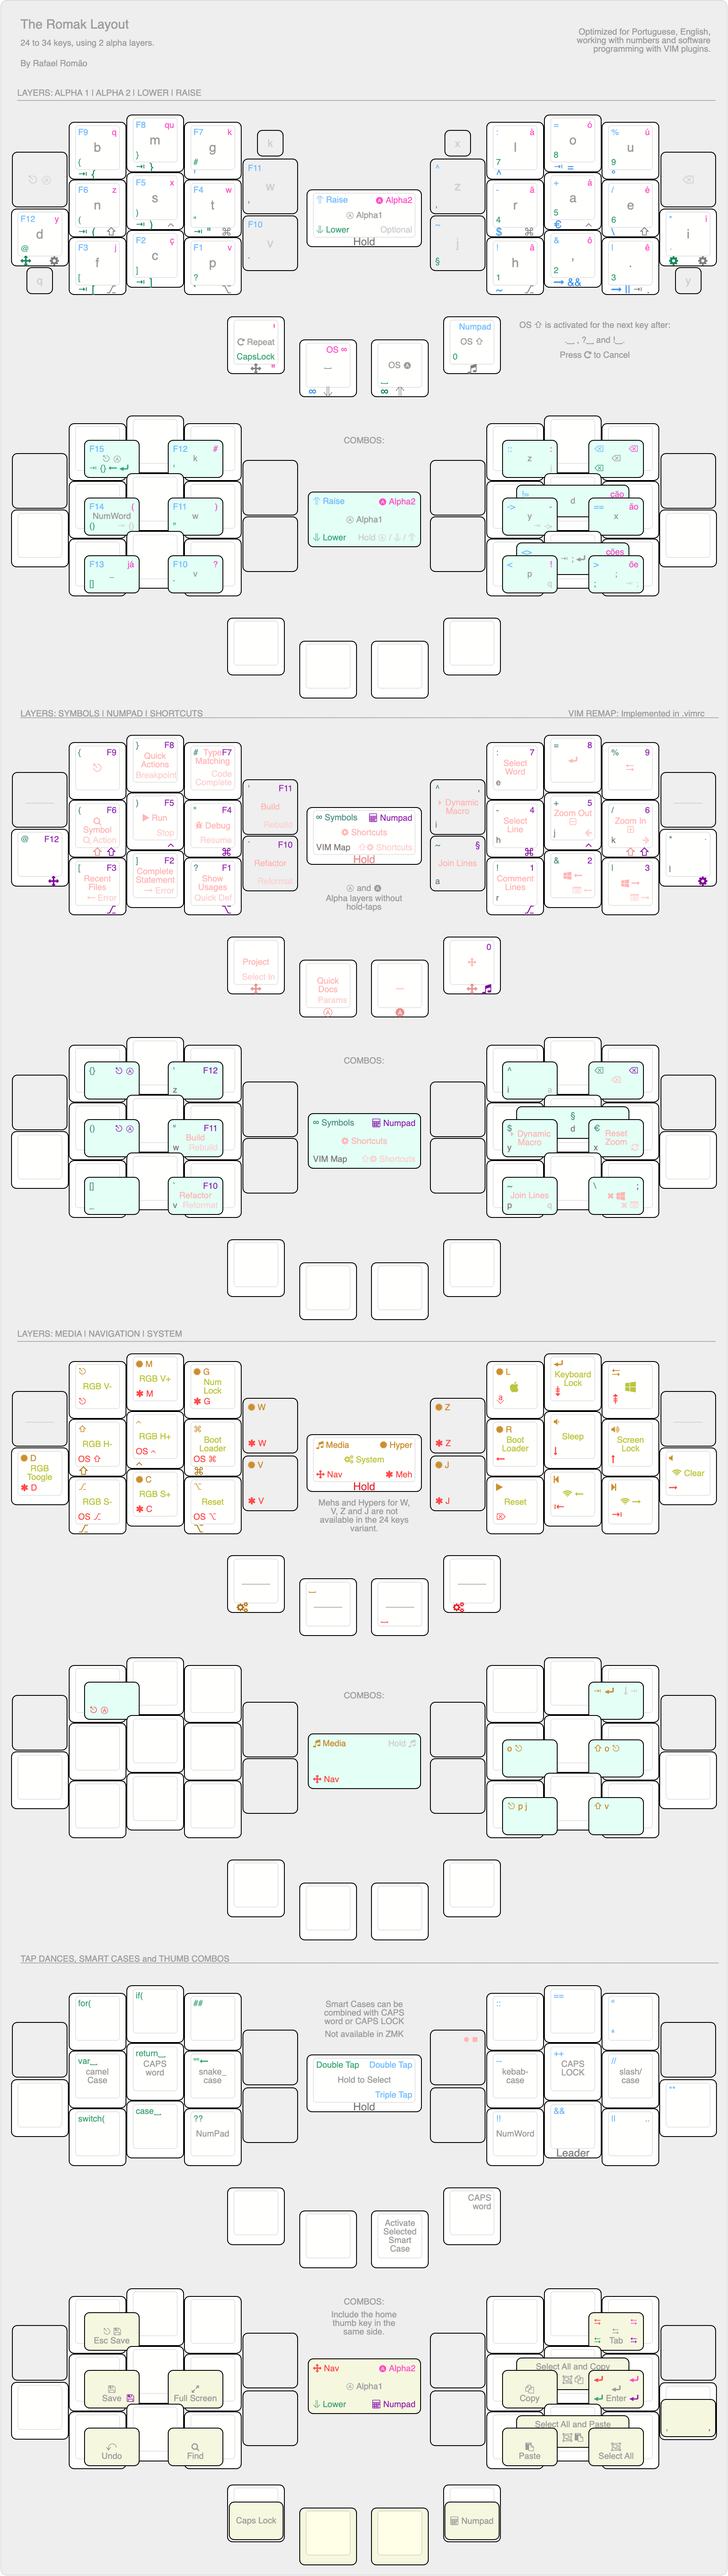
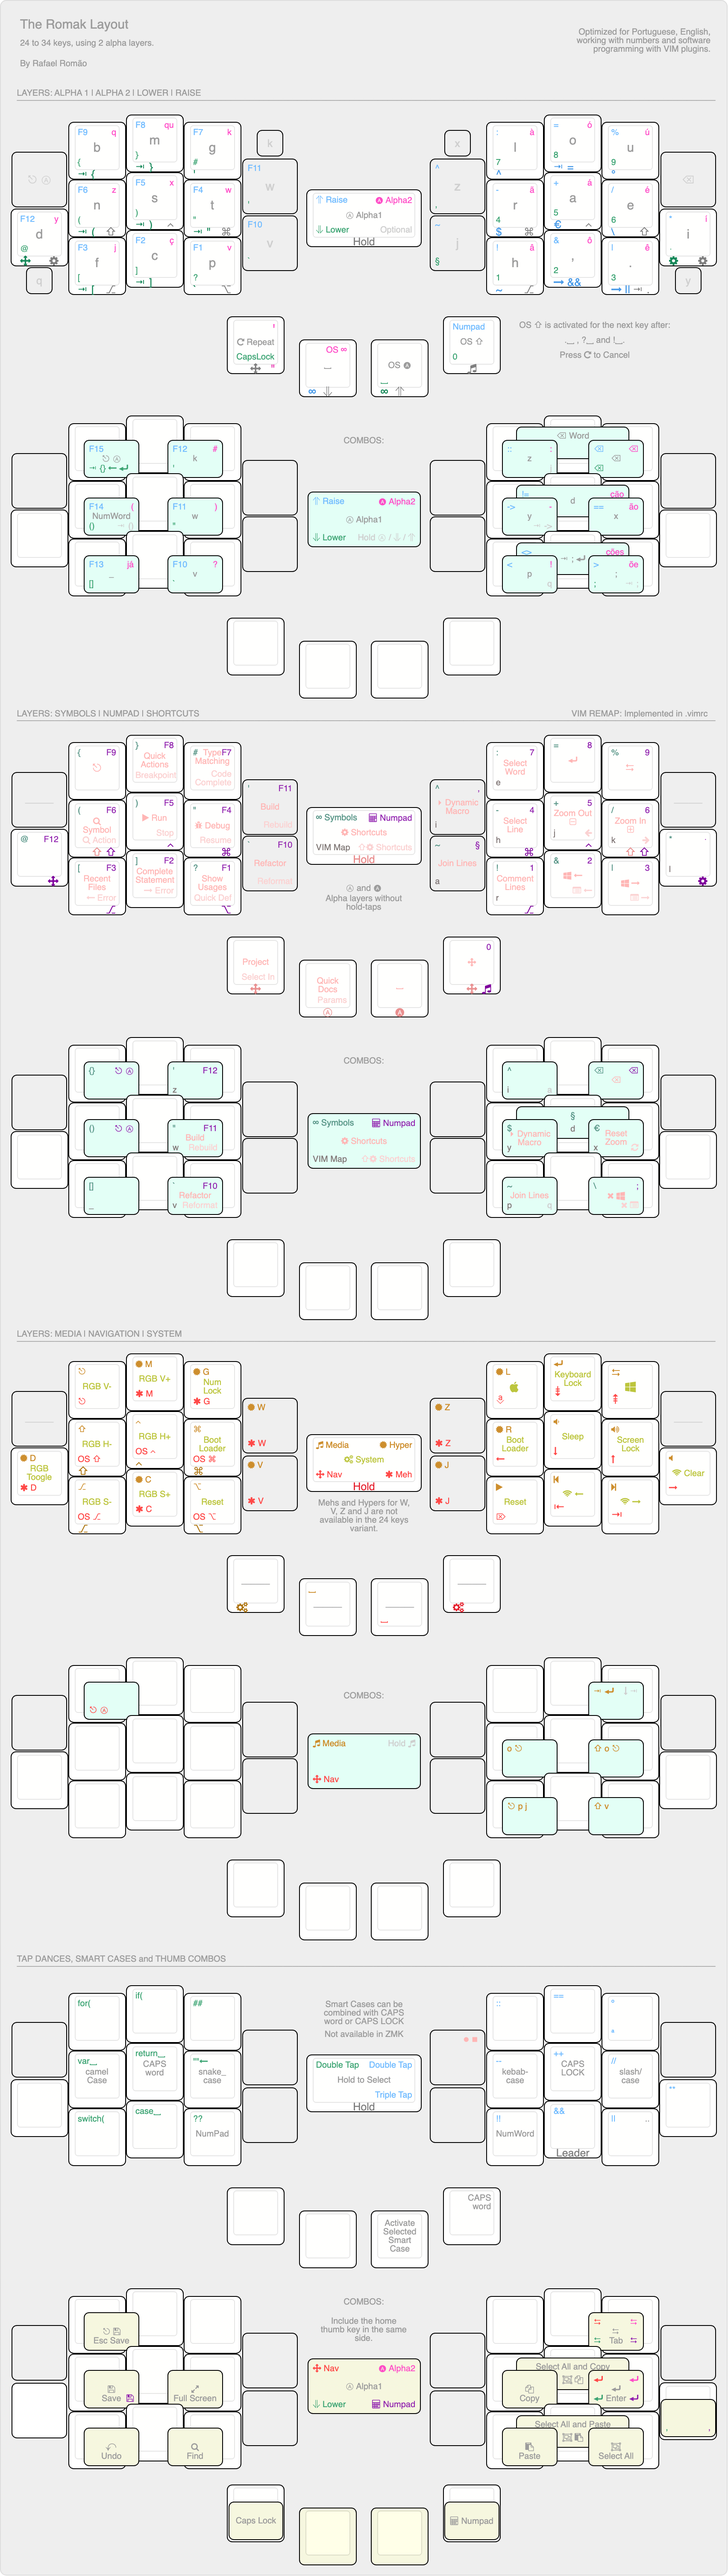
add combo for delete last word

diff --git a/src/qmk/users/rafaelromao/features/combos.c b/src/qmk/users/rafaelromao/features/combos.c
@@ -9,6 +9,7 @@ const uint16_t PROGMEM l_num_f11_combo[] = {CT_F5, GU_F4, COMBO_END};
 const uint16_t PROGMEM l_num_esc_combo[] = {KC_F9, KC_F8, COMBO_END};
 const uint16_t PROGMEM l_num_sav_combo[] = {KC_SPC, SF_F6, CT_F5, COMBO_END};
 const uint16_t PROGMEM r_num_ent_combo[] = {RAI_SPC, CT_5, SF_6, COMBO_END};
+const uint16_t PROGMEM r_num_dlw_combo[] = {KC_7, KC_8, KC_9, COMBO_END};
 const uint16_t PROGMEM r_num_bsp_combo[] = {KC_8, KC_9, COMBO_END};
 const uint16_t PROGMEM r_num_tab_combo[] = {RAI_SPC, KC_8, KC_9, COMBO_END};
 const uint16_t PROGMEM l_num_num_combo[] = {SF_F6, CT_F5, COMBO_END};
@@ -89,12 +90,12 @@ const uint16_t PROGMEM l_acc_lpa_combo[]  = {KC_Z, KC_X, COMBO_END};
 const uint16_t PROGMEM l_acc_rpa_combo[]  = {KC_X, KC_W, COMBO_END};
 const uint16_t PROGMEM l_acc_ques_combo[] = {MC_SQ_C, KC_V, COMBO_END};
 
+const uint16_t PROGMEM r_acc_dlw_combo[]  = {MC_GV_A, MC_SQ_O, MC_SQ_U, COMBO_END};
 const uint16_t PROGMEM r_acc_bsp_combo[]  = {MC_SQ_O, MC_SQ_U, COMBO_END};
 const uint16_t PROGMEM r_acc_tab_combo[]  = {RAI_A2, MC_SQ_O, MC_SQ_U, COMBO_END};
 const uint16_t PROGMEM r_acc_col_combo[]  = {MC_GV_A, MC_SQ_O, COMBO_END};
 const uint16_t PROGMEM r_acc_min_combo[]  = {MC_TL_A, MC_SQ_A, COMBO_END};
 const uint16_t PROGMEM r_acc_excl_combo[] = {MC_CR_A, MC_CR_O, COMBO_END};
-const uint16_t PROGMEM r_acc_eur_combo[]  = {MC_GV_A, MC_SQ_O, MC_SQ_U, COMBO_END};
 const uint16_t PROGMEM r_acc_ao_combo[]   = {MC_SQ_A, MC_SQ_E, COMBO_END};
 const uint16_t PROGMEM r_acc_oe_combo[]   = {MC_CR_O, MC_CR_E, COMBO_END};
 const uint16_t PROGMEM r_acc_cao_combo[]  = {MC_TL_A, MC_SQ_A, MC_SQ_E, COMBO_END};
@@ -125,6 +126,7 @@ const uint16_t PROGMEM r_rom_d_combo[]    = {RGUIT_R, RCTLT_A, RSFTT_E, COMBO_EN
 const uint16_t PROGMEM r_rom_cop_combo[]  = {RAI_A2, RGUIT_R, RCTLT_A, COMBO_END};
 const uint16_t PROGMEM r_rom_pas_combo[]  = {RAI_A2, RALTT_H, TD_COMM, COMBO_END};
 const uint16_t PROGMEM r_rom_ent_combo[]  = {RAI_A2, RCTLT_A, RSFTT_E, COMBO_END};
+const uint16_t PROGMEM r_rom_dlw_combo[]  = {KC_L, KC_O, KC_U, COMBO_END};
 const uint16_t PROGMEM r_rom_bsp_combo[]  = {KC_O, KC_U, COMBO_END};
 const uint16_t PROGMEM r_rom_tab_combo[]  = {RAI_A2, KC_O, KC_U, COMBO_END};
 const uint16_t PROGMEM r_rom_sal_combo[]  = {RAI_A2, TD_COMM, TD_DOT, COMBO_END};
@@ -145,41 +147,41 @@ const uint16_t PROGMEM r_med_soe_combo[]  = {KC_VOLD, KC_VOLU, COMBO_END};
 const uint16_t PROGMEM secret_1_combo[] = {SEC_1, SEC_2, SEC_3, SEC_4, COMBO_END};
 
 combo_t key_combos[] = {
-    COMBO(l_sym_cur_combo, MC_CURS),   COMBO(l_sym_par_combo, TD_PARN),  COMBO(l_sym_bra_combo, MC_BRAC),
-    COMBO(l_sym_squo_combo, MC_SQUO),  COMBO(l_sym_dquo_combo, MC_DQUO), COMBO(l_sym_btic_combo, MC_BTIC),
-    COMBO(r_sym_circ_combo, MC_CIRC),  COMBO(r_sym_dol_combo, KC_DLR),   COMBO(r_sym_til_combo, MC_TILD),
-    COMBO(r_sym_sec_combo, MC_SEC),    COMBO(r_sym_eur_combo, MC_EUR),   COMBO(r_sym_bsl_combo, KC_BSLS),
-    COMBO(r_low_com_combo, KC_COMM),   COMBO(r_num_com_combo, KC_COMM),  COMBO(l_acc_esc_combo, MC_ESCC),
-    COMBO(l_acc_ja_combo, MC_JA),      COMBO(l_acc_ques_combo, MC_QUES), COMBO(l_acc_hash_combo, KC_HASH),
-    COMBO(l_low_cur_combo, MC_CUR),    COMBO(l_low_bra_combo, MC_BRAC),  COMBO(l_low_par_combo, TD_PARN),
-    COMBO(l_nav_esc_combo, MC_ESCC),   COMBO(l_num_esc_combo, MC_ESCC),  COMBO(l_num_f10_combo, KC_F10),
-    COMBO(l_num_f11_combo, KC_F11),    COMBO(l_num_num_combo, TO_A1),    COMBO(l_num_sav_combo, MC_SAVE),
-    COMBO(l_rai_f10_combo, KC_F10),    COMBO(l_rai_f11_combo, KC_F11),   COMBO(l_rai_f12_combo, KC_F12),
-    COMBO(l_rai_f13_combo, KC_F13),    COMBO(l_rai_f14_combo, KC_F14),   COMBO(l_rai_f15_combo, KC_F15),
-    COMBO(l_rom_cap_combo, TG_CAPS),   COMBO(l_rom_esc_combo, MC_ESCC),  COMBO(l_rom_esv_combo, MC_ESAV),
-    COMBO(l_rom_fin_combo, MC_FIND),   COMBO(l_rom_ful_combo, MC_FULL),  COMBO(l_rom_k_combo, KC_K),
-    COMBO(l_rom_num_combo, TG_NUMC),   COMBO(l_rom_sav_combo, MC_SAVE),  COMBO(l_rom_und_combo, MC_UNDO),
-    COMBO(l_rom_usc_combo, KC_UNDS),   COMBO(l_rom_v_combo, KC_V),       COMBO(l_rom_w_combo, KC_W),
-    COMBO(l_acc_lpa_combo, KC_LPRN),   COMBO(l_acc_rpa_combo, KC_RPRN),  COMBO(l_sho_bui_combo, MC_BUID),
-    COMBO(l_sho_ref_combo, MC_REFC),   COMBO(r_acc_ao_combo, MC_AO),     COMBO(r_acc_bsp_combo, KC_BSPC),
-    COMBO(r_acc_cao_combo, MC_CAO),    COMBO(r_acc_coes_combo, MC_COES), COMBO(r_acc_col_combo, KC_COLN),
-    COMBO(r_acc_eur_combo, MC_EUR),    COMBO(r_acc_excl_combo, MC_EXLM), COMBO(r_acc_min_combo, KC_MINS),
-    COMBO(r_acc_oe_combo, MC_OE),      COMBO(r_low_ent_combo, KC_ENT),   COMBO(r_low_sco_combo, TD_SCLE),
-    COMBO(r_med_ent_combo, TD_EENT),   COMBO(r_med_epa_combo, MC_EPA),   COMBO(r_med_vis_combo, MC_VIS),
-    COMBO(r_med_oes_combo, MC_OESC),   COMBO(r_med_soe_combo, MC_SOES),  COMBO(r_nav_bsp_combo, KC_BSPC),
-    COMBO(r_nav_cop_combo, MC_COPY),   COMBO(r_nav_ent_combo, KC_ENT),   COMBO(r_nav_pas_combo, MC_PAST),
-    COMBO(r_num_bsp_combo, KC_BSPC),   COMBO(r_num_ent_combo, KC_ENT),   COMBO(r_num_npd_combo, TG_NUM),
-    COMBO(r_num_tab_combo, KC_TAB),    COMBO(r_rai_bsp_combo, KC_BSPC),  COMBO(r_rai_deq_combo, MC_DEQ),
-    COMBO(r_rai_gt_combo, TD_GT),      COMBO(r_rai_lt_combo, TD_LT),     COMBO(r_rai_ltgt_combo, MC_LTGT),
-    COMBO(r_rai_neq_combo, MC_NEQ),    COMBO(r_rai_dcol_combo, TD_DCOL), COMBO(r_rai_sar_combo, TD_SARR),
-    COMBO(r_rom_bsp_combo, KC_BSPC),   COMBO(r_rom_cop_combo, MC_COPY),  COMBO(r_rom_d_combo, KC_D),
-    COMBO(r_rom_ent_combo, KC_ENT),    COMBO(r_rom_npd_combo, TG_NUM),   COMBO(r_rom_pq_combo, TD_PQ),
-    COMBO(r_rom_pas_combo, MC_PAST),   COMBO(r_rom_sal_combo, MC_SELC),  COMBO(r_rom_sco_combo, TD_SCLE),
-    COMBO(r_rom_scp_combo, MC_SCOP),   COMBO(r_rom_sent_combo, MC_SENT), COMBO(r_rom_spa_combo, MC_SPAS),
-    COMBO(r_rom_tab_combo, KC_TAB),    COMBO(r_acc_tab_combo, KC_TAB),   COMBO(r_rom_zj_combo, TD_ZJ),
-    COMBO(r_rom_x_combo, KC_X),        COMBO(r_rom_y_combo, KC_Y),       COMBO(r_sho_clo_combo, MC_CLOS),
-    COMBO(r_sho_dyn_combo, TD_MACR),   COMBO(r_sho_joi_combo, MC_JOIN),  COMBO(r_sho_z0r_combo, MC_Z0R),
-    COMBO(secret_1_combo, MC_SECRET_1)};
+    COMBO(l_sym_cur_combo, MC_CURS),  COMBO(l_sym_par_combo, TD_PARN),  COMBO(l_sym_bra_combo, MC_BRAC),
+    COMBO(l_sym_squo_combo, MC_SQUO), COMBO(l_sym_dquo_combo, MC_DQUO), COMBO(l_sym_btic_combo, MC_BTIC),
+    COMBO(r_sym_circ_combo, MC_CIRC), COMBO(r_sym_dol_combo, KC_DLR),   COMBO(r_sym_til_combo, MC_TILD),
+    COMBO(r_sym_sec_combo, MC_SEC),   COMBO(r_sym_eur_combo, MC_EUR),   COMBO(r_sym_bsl_combo, KC_BSLS),
+    COMBO(r_low_com_combo, KC_COMM),  COMBO(r_num_com_combo, KC_COMM),  COMBO(l_acc_esc_combo, MC_ESCC),
+    COMBO(l_acc_ja_combo, MC_JA),     COMBO(l_acc_ques_combo, MC_QUES), COMBO(l_acc_hash_combo, KC_HASH),
+    COMBO(l_low_cur_combo, MC_CUR),   COMBO(l_low_bra_combo, MC_BRAC),  COMBO(l_low_par_combo, TD_PARN),
+    COMBO(l_nav_esc_combo, MC_ESCC),  COMBO(l_num_esc_combo, MC_ESCC),  COMBO(l_num_f10_combo, KC_F10),
+    COMBO(l_num_f11_combo, KC_F11),   COMBO(l_num_num_combo, TO_A1),    COMBO(l_num_sav_combo, MC_SAVE),
+    COMBO(l_rai_f10_combo, KC_F10),   COMBO(l_rai_f11_combo, KC_F11),   COMBO(l_rai_f12_combo, KC_F12),
+    COMBO(l_rai_f13_combo, KC_F13),   COMBO(l_rai_f14_combo, KC_F14),   COMBO(l_rai_f15_combo, KC_F15),
+    COMBO(l_rom_cap_combo, TG_CAPS),  COMBO(l_rom_esc_combo, MC_ESCC),  COMBO(l_rom_esv_combo, MC_ESAV),
+    COMBO(l_rom_fin_combo, MC_FIND),  COMBO(l_rom_ful_combo, MC_FULL),  COMBO(l_rom_k_combo, KC_K),
+    COMBO(l_rom_num_combo, TG_NUMC),  COMBO(l_rom_sav_combo, MC_SAVE),  COMBO(l_rom_und_combo, MC_UNDO),
+    COMBO(l_rom_usc_combo, KC_UNDS),  COMBO(l_rom_v_combo, KC_V),       COMBO(l_rom_w_combo, KC_W),
+    COMBO(l_acc_lpa_combo, KC_LPRN),  COMBO(l_acc_rpa_combo, KC_RPRN),  COMBO(l_sho_bui_combo, MC_BUID),
+    COMBO(l_sho_ref_combo, MC_REFC),  COMBO(r_acc_ao_combo, MC_AO),     COMBO(r_acc_bsp_combo, KC_BSPC),
+    COMBO(r_acc_dlw_combo, MC_DWOR),  COMBO(r_acc_cao_combo, MC_CAO),   COMBO(r_acc_coes_combo, MC_COES),
+    COMBO(r_acc_col_combo, KC_COLN),  COMBO(r_acc_excl_combo, MC_EXLM), COMBO(r_acc_min_combo, KC_MINS),
+    COMBO(r_acc_oe_combo, MC_OE),     COMBO(r_low_ent_combo, KC_ENT),   COMBO(r_low_sco_combo, TD_SCLE),
+    COMBO(r_med_ent_combo, TD_EENT),  COMBO(r_med_epa_combo, MC_EPA),   COMBO(r_med_vis_combo, MC_VIS),
+    COMBO(r_med_oes_combo, MC_OESC),  COMBO(r_med_soe_combo, MC_SOES),  COMBO(r_nav_bsp_combo, KC_BSPC),
+    COMBO(r_nav_cop_combo, MC_COPY),  COMBO(r_nav_ent_combo, KC_ENT),   COMBO(r_nav_pas_combo, MC_PAST),
+    COMBO(r_num_bsp_combo, KC_BSPC),  COMBO(r_num_dlw_combo, MC_DWOR),  COMBO(r_num_ent_combo, KC_ENT),
+    COMBO(r_num_npd_combo, TG_NUM),   COMBO(r_num_tab_combo, KC_TAB),   COMBO(r_rai_bsp_combo, KC_BSPC),
+    COMBO(r_rai_deq_combo, MC_DEQ),   COMBO(r_rai_gt_combo, TD_GT),     COMBO(r_rai_lt_combo, TD_LT),
+    COMBO(r_rai_ltgt_combo, MC_LTGT), COMBO(r_rai_neq_combo, MC_NEQ),   COMBO(r_rai_dcol_combo, TD_DCOL),
+    COMBO(r_rai_sar_combo, TD_SARR),  COMBO(r_rom_bsp_combo, KC_BSPC),  COMBO(r_rom_dlw_combo, MC_DWOR),
+    COMBO(r_rom_cop_combo, MC_COPY),  COMBO(r_rom_d_combo, KC_D),       COMBO(r_rom_ent_combo, KC_ENT),
+    COMBO(r_rom_npd_combo, TG_NUM),   COMBO(r_rom_pq_combo, TD_PQ),     COMBO(r_rom_pas_combo, MC_PAST),
+    COMBO(r_rom_sal_combo, MC_SELC),  COMBO(r_rom_sco_combo, TD_SCLE),  COMBO(r_rom_scp_combo, MC_SCOP),
+    COMBO(r_rom_sent_combo, MC_SENT), COMBO(r_rom_spa_combo, MC_SPAS),  COMBO(r_rom_tab_combo, KC_TAB),
+    COMBO(r_acc_tab_combo, KC_TAB),   COMBO(r_rom_zj_combo, TD_ZJ),     COMBO(r_rom_x_combo, KC_X),
+    COMBO(r_rom_y_combo, KC_Y),       COMBO(r_sho_clo_combo, MC_CLOS),  COMBO(r_sho_dyn_combo, TD_MACR),
+    COMBO(r_sho_joi_combo, MC_JOIN),  COMBO(r_sho_z0r_combo, MC_Z0R),   COMBO(secret_1_combo, MC_SECRET_1)};
 
 bool combo_should_trigger(uint16_t combo_index, combo_t *combo, uint16_t keycode, keyrecord_t *record) {
     switch (combo->keycode) {

diff --git a/src/qmk/users/rafaelromao/features/macros.c b/src/qmk/users/rafaelromao/features/macros.c
@@ -431,6 +431,16 @@ process_record_result_t process_macro_keycode(uint16_t keycode, bool isOneShotSh
             tap_code16(KC_EXLM);
             start_sentence_case();
             return PROCESS_RECORD_RETURN_FALSE;
+
+            // Delete last word
+
+        case MC_DWOR:
+            if (isMacOS) {
+                SEND_STRING(SS_LALT(SS_TAP(X_BSPC)));
+            } else {
+                SEND_STRING(SS_LCTL(SS_TAP(X_BSPC)));
+            }
+            return PROCESS_RECORD_RETURN_FALSE;
     }
 
     return PROCESS_RECORD_CONTINUE;

diff --git a/src/qmk/users/rafaelromao/definitions/keycodes.h b/src/qmk/users/rafaelromao/definitions/keycodes.h
@@ -91,7 +91,7 @@ enum {
     OS_ACNT, TG_MAC, TG_WIN, TG_CASE, TG_ACNT, TG_CAPS,
 
     // Select Word/Line
-    MC_SELW, MC_SELL, 
+    MC_SELW, MC_SELL,
     
     // Swapper
     MC_MODP, MC_MODM, MC_SWLE, MC_SWRI, 
@@ -107,7 +107,7 @@ enum {
     MC_QUIK, MC_AUCO, 
     MC_QDOC, MC_FSYM, MC_RUN, MC_DBUG, MC_BUID,
     MC_PROJ, MC_RECE, MC_COMP, MC_FIUS, MC_REFC,
-    MC_COMT, MC_JOIN,
+    MC_COMT, MC_JOIN, MC_DWOR,
 
     // Begin macros used to write text
     STR_MACRO_START,
